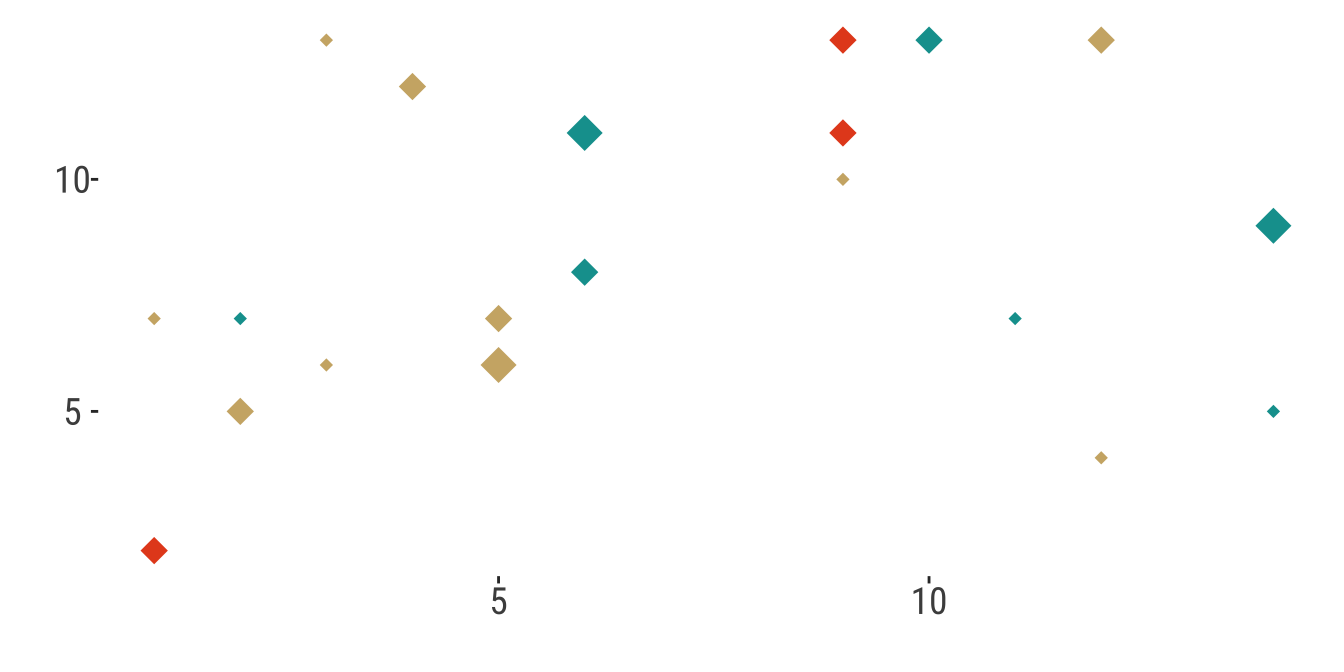
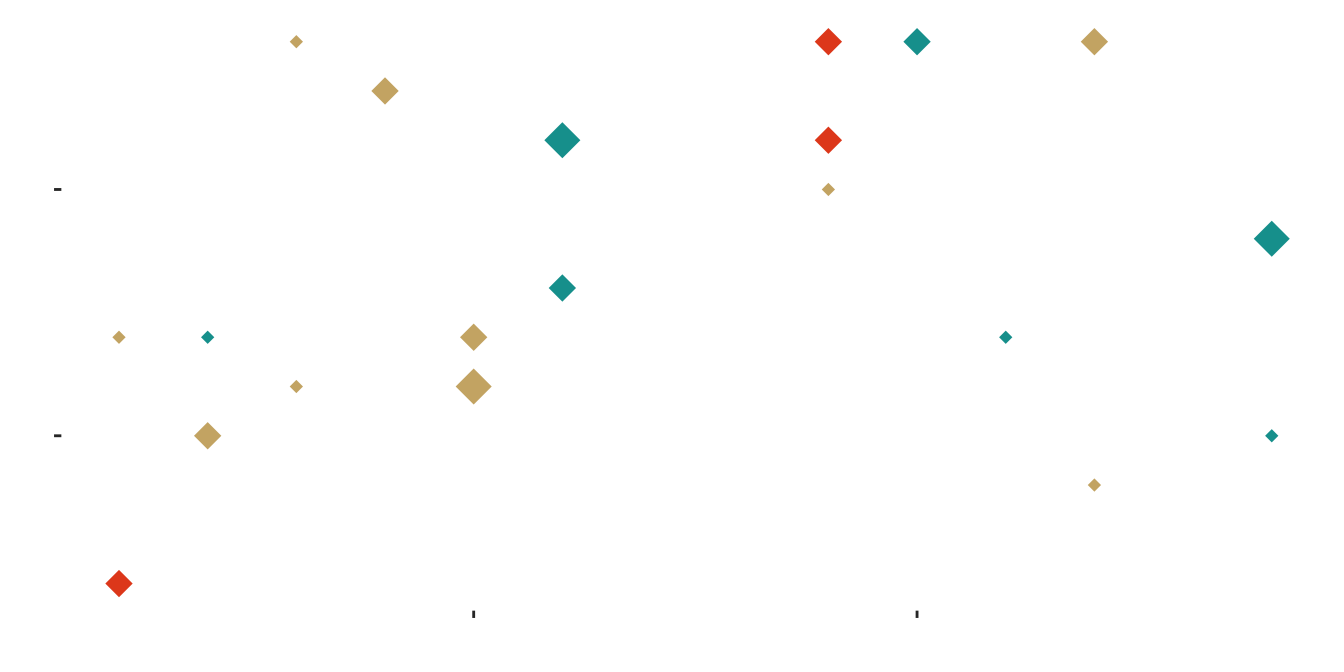
Built site for gh-pages

diff --git a/slides/Estimation.html b/slides/Estimation.html
@@ -358,7 +358,8 @@ Bárbara D. Bitarello
 <span id="cb2-4"><a></a>  <span class="fu">geom_point</span>(<span class="at">shape =</span> <span class="dv">18</span>, <span class="at">show.legend =</span> <span class="cn">FALSE</span>) <span class="sc">+</span> </span>
 <span id="cb2-5"><a></a>  <span class="fu">scale_color_manual</span>(<span class="at">values =</span> <span class="fu">asteroidcity1</span>()) <span class="sc">+</span></span>
 <span id="cb2-6"><a></a>  <span class="fu">bb_theme</span>() <span class="sc">+</span> </span>
-<span id="cb2-7"><a></a>  <span class="fu">ylab</span>(<span class="st">""</span>) <span class="sc">+</span> <span class="fu">ylab</span>(<span class="st">""</span>) <span class="sc">+</span>   <span class="fu">theme</span>(<span class="at">axis.text.x =</span> <span class="fu">element_blank</span>(), <span class="at">axis.text.y =</span> <span class="fu">element_blank</span>())</span></code></pre></div><button title="Copy to Clipboard" class="code-copy-button"><i class="bi"></i></button></div>
+<span id="cb2-7"><a></a>  <span class="fu">ylab</span>(<span class="st">""</span>) <span class="sc">+</span> <span class="fu">ylab</span>(<span class="st">""</span>) <span class="sc">+</span>   </span>
+<span id="cb2-8"><a></a>  <span class="fu">theme</span>(<span class="at">axis.text.x =</span> <span class="fu">element_blank</span>(), <span class="at">axis.text.y =</span> <span class="fu">element_blank</span>())</span></code></pre></div><button title="Copy to Clipboard" class="code-copy-button"><i class="bi"></i></button></div>
 </details>
 </div>
 <img data-src="Estimation_files/figure-revealjs/sample20-2-plot-1.png" width="672" class="r-stretch"><div class="cell">
@@ -401,8 +402,9 @@ Bárbara D. Bitarello
 <span id="cb3-4"><a></a>  <span class="fu">geom_point</span>(<span class="at">shape =</span> <span class="dv">18</span>, <span class="at">show.legend =</span> <span class="cn">FALSE</span>) <span class="sc">+</span> </span>
 <span id="cb3-5"><a></a>  <span class="fu">scale_color_manual</span>(<span class="at">values =</span> <span class="fu">asteroidcity1</span>()) <span class="sc">+</span></span>
 <span id="cb3-6"><a></a>  <span class="fu">bb_theme</span>() <span class="sc">+</span> </span>
-<span id="cb3-7"><a></a>  <span class="fu">ylab</span>(<span class="st">""</span>) <span class="sc">+</span> <span class="fu">xlab</span>(<span class="st">""</span>) <span class="sc">+</span></span>
-<span id="cb3-8"><a></a>   <span class="fu">theme</span>(<span class="at">axis.text.x =</span> <span class="fu">element_blank</span>(), <span class="at">axis.text.y =</span> <span class="fu">element_blank</span>())</span></code></pre></div><button title="Copy to Clipboard" class="code-copy-button"><i class="bi"></i></button></div>
+<span id="cb3-7"><a></a>  <span class="fu">ylab</span>(<span class="st">""</span>) <span class="sc">+</span> </span>
+<span id="cb3-8"><a></a>  <span class="fu">xlab</span>(<span class="st">""</span>) <span class="sc">+</span></span>
+<span id="cb3-9"><a></a>   <span class="fu">theme</span>(<span class="at">axis.text.x =</span> <span class="fu">element_blank</span>(), <span class="at">axis.text.y =</span> <span class="fu">element_blank</span>())</span></code></pre></div><button title="Copy to Clipboard" class="code-copy-button"><i class="bi"></i></button></div>
 </details>
 </div>
 <img data-src="Estimation_files/figure-revealjs/sample20-3-plot-1.png" width="672" class="r-stretch"><div class="cell">
@@ -443,7 +445,7 @@ Bárbara D. Bitarello
 <span id="cb4-2"><a></a>stars.sample <span class="ot">&lt;-</span> <span class="fu">sample_n</span>(stars, <span class="at">size =</span> star.sample.size, <span class="at">replace =</span> <span class="cn">FALSE</span>)</span>
 <span id="cb4-3"><a></a><span class="fu">ggplot</span>(stars.sample, <span class="fu">aes</span>(<span class="at">x =</span> x, <span class="at">y =</span> y, <span class="at">color =</span> color, <span class="at">size =</span> size)) <span class="sc">+</span> <span class="fu">geom_point</span>(<span class="at">shape =</span> <span class="dv">18</span>,</span>
 <span id="cb4-4"><a></a>    <span class="at">show.legend =</span> <span class="cn">FALSE</span>) <span class="sc">+</span> <span class="fu">scale_color_manual</span>(<span class="at">values =</span> <span class="fu">asteroidcity1</span>()) <span class="sc">+</span> <span class="fu">bb_theme</span>() <span class="sc">+</span></span>
-<span id="cb4-5"><a></a>    <span class="fu">ylab</span>(<span class="st">""</span>) <span class="sc">+</span> <span class="fu">xlab</span>(<span class="st">""</span>)</span></code></pre></div><button title="Copy to Clipboard" class="code-copy-button"><i class="bi"></i></button></div>
+<span id="cb4-5"><a></a>    <span class="fu">ylab</span>(<span class="st">""</span>) <span class="sc">+</span> <span class="fu">xlab</span>(<span class="st">""</span>) <span class="sc">+</span> <span class="fu">theme</span>(<span class="at">axis.text.x =</span> <span class="fu">element_blank</span>(), <span class="at">axis.text.y =</span> <span class="fu">element_blank</span>())</span></code></pre></div><button title="Copy to Clipboard" class="code-copy-button"><i class="bi"></i></button></div>
 </details>
 </div>
 <img data-src="Estimation_files/figure-revealjs/sample20-4-plot-1.png" width="672" class="r-stretch"><div class="cell">
@@ -492,7 +494,7 @@ Bárbara D. Bitarello
 </ul>
 
 <aside><div>
-<p>There are some great interactive simulators out there to help you grasp the sampling distribution, e.g.<a href="https://www.zoology.ubc.ca/~whitlock/Kingfisher/SamplingNormal.htm">this one</a></p>
+<p>There are some other great interactive simulators out there to help you grasp the sampling distribution. I share one later but there a</p>
 </div></aside></section><section id="the-sampling-distribution" class="slide level2 dark-theme center"><h2>The sampling distribution!</h2>
 </section><section id="the-sampling-distribution-1" class="slide level2"><h2>The sampling distribution</h2>
 <ul>
@@ -510,7 +512,7 @@ Bárbara D. Bitarello
 </ol>
 
 <aside><div>
-<p>Assumption: you can sample repeatedly from the population of interest and your sampling does not in iteself change the population of interest. When this is not possible to do, you can bootstrap! (which we did in Lab 6, more on this later)</p>
+<p>Assumption: you can sample repeatedly from the population of interest and your sampling does not in iteself change the population of interest. When this is not possible to do, you can bootstrap! (which we did in Lab 6, more on this later). In the meantime, <a href="https://online.stat.psu.edu/stat555/node/119/">check this out.</a></p>
 </div></aside></section><section id="example-the-sampling-distribution-of-diamonds" class="slide level2"><h2>Example: The Sampling Distribution of Diamonds</h2>
 <div class="cell">
 <div class="cell-output-display">
@@ -694,13 +696,17 @@ Bárbara D. Bitarello
 <img data-src="Estimation_files/figure-revealjs/jointsampdist-1.png" width="960" class="r-stretch"></section><section id="how-does-variability-in-an-estimate-change-with-sample-size" class="slide level2 dark-theme center"><h2>How does variability in an estimate change with sample size?</h2>
 </section><section id="section" class="slide level2"><h2></h2>
 
-<img data-src="Estimation_files/figure-revealjs/variab-1.png" width="960" class="r-stretch"></section><section id="standard-error" class="slide level2 dark-theme center"><h2>Standard Error</h2>
+<img data-src="Estimation_files/figure-revealjs/variab-1.png" width="960" class="r-stretch"></section><section id="section-1" class="slide level2"><h2></h2>
+
+<img data-src="images/clipboard-3973341862.png" class="r-stretch"></section><section id="standard-error" class="slide level2 dark-theme center"><h2>Standard Error</h2>
 </section><section id="the-standard-error-definition" class="slide level2"><h2>The Standard Error: Definition</h2>
-<p>The standard error reflects the difference between an estimate and the target parameter value. The standard error predicts the sampling error of the estimate.</p>
-</section><section id="the-standard-error-of-the-mean-sem" class="slide level2"><h2>The Standard Error of the Mean (SEM)</h2>
 <ul>
-<li><p>Because we rarely know the population standard deviation,<span class="math inline">\(\sigma\)</span>, we cannot find the parameter <font color="#ad7237"> <span class="math inline">\(\sigma_{\bar{Y}}=\frac{\sigma_{Y}}{\sqrt{n}}\)</span></font> , the standard error of the <font color="#ad7237">population mean</font>.</p></li>
-<li><p>But, we can use the sample standard deviation, <span class="math inline">\(s\)</span>, to estimate <font color="#00a1b7"><span class="math inline">\(SEM_{\bar{Y}}=\frac{s}{\sqrt{n}}\)</span></font>, the standard error of the <font color="#00a1b7">sample mean</font>.</p></li>
+<li><p>The standard error reflects the difference between an estimate and the target parameter value.</p></li>
+<li><p>The standard error predicts the sampling error of the estimate.</p></li>
+</ul></section><section id="the-standard-error-of-the-mean-sem" class="slide level2"><h2>The Standard Error of the Mean (SEM)</h2>
+<ul>
+<li><p>Because we rarely know the population standard deviation,<font color="#ad7237"><span class="math inline">\(\sigma\)</span></font>, we cannot find the parameter <font color="#ad7237"> <span class="math inline">\(\sigma_{\bar{Y}}=\frac{\sigma_{Y}}{\sqrt{n}}\)</span></font> , the standard error of the <font color="#ad7237">population mean</font>.</p></li>
+<li><p>But, we can use the sample standard deviation, <font color="#00a1b7"><span class="math inline">\(s\)</span></font>, to estimate <font color="#00a1b7"><span class="math inline">\(SEM_{\bar{Y}}=\frac{s}{\sqrt{n}}\)</span></font>, the standard error of the <font color="#00a1b7">sample mean</font>.</p></li>
 </ul>
 <p>Also:</p>
 <div class="goal">
@@ -709,11 +715,13 @@ Bárbara D. Bitarello
 </section><section id="example-human-gene-lengths" class="slide level2 dark-theme center"><h2>Example: human gene lengths</h2>
 </section><section id="human-gene-lengths" class="slide level2"><h2>Human gene lengths</h2>
 <div class="cell">
-<details class="code-fold"><summary>Code</summary><div class="code-copy-outer-scaffold"><div class="sourceCode cell-code" id="cb6"><pre class="sourceCode numberSource r number-lines code-with-copy"><code class="sourceCode r"><span id="cb6-1"><a></a><span class="fu">ggplot</span>(human_genes, <span class="fu">aes</span>(<span class="at">x =</span> size)) <span class="sc">+</span> <span class="fu">geom_histogram</span>(<span class="fu">aes</span>(<span class="at">y =</span> <span class="fu">after_stat</span>(count<span class="sc">/</span><span class="fu">sum</span>(count))),</span>
-<span id="cb6-2"><a></a>    <span class="at">bins =</span> <span class="dv">60</span>, <span class="at">color =</span> <span class="st">"lightgray"</span>, <span class="at">fill =</span> <span class="st">"#006475"</span>) <span class="sc">+</span> <span class="fu">xlab</span>(<span class="st">"Gene Length (basepairs)"</span>) <span class="sc">+</span></span>
-<span id="cb6-3"><a></a>    <span class="fu">ylab</span>(<span class="st">"Relative Frequency"</span>) <span class="sc">+</span> <span class="fu">annotate</span>(<span class="st">"text"</span>, <span class="at">x =</span> <span class="dv">10000</span>, <span class="at">y =</span> <span class="fl">0.04</span>, <span class="at">label =</span> <span class="st">"mu==3511.5"</span>,</span>
-<span id="cb6-4"><a></a>    <span class="at">parse =</span> <span class="cn">TRUE</span>, <span class="at">size =</span> <span class="dv">10</span>) <span class="sc">+</span> <span class="fu">annotate</span>(<span class="st">"text"</span>, <span class="at">x =</span> <span class="dv">10000</span>, <span class="at">y =</span> <span class="fl">0.03</span>, <span class="at">label =</span> <span class="st">"sigma==2833.2"</span>,</span>
-<span id="cb6-5"><a></a>    <span class="at">parse =</span> <span class="cn">TRUE</span>, <span class="at">size =</span> <span class="dv">10</span>) <span class="sc">+</span> <span class="fu">bb_theme</span>()</span></code></pre></div><button title="Copy to Clipboard" class="code-copy-button"><i class="bi"></i></button></div>
+<details class="code-fold"><summary>Code</summary><div class="code-copy-outer-scaffold"><div class="sourceCode cell-code" id="cb6"><pre class="sourceCode numberSource r number-lines code-with-copy"><code class="sourceCode r"><span id="cb6-1"><a></a><span class="fu">ggplot</span>(human_genes , <span class="fu">aes</span>(<span class="at">x=</span>size)) <span class="sc">+</span> <span class="fu">geom_histogram</span>(<span class="fu">aes</span>(<span class="at">y=</span><span class="fu">after_stat</span>(count <span class="sc">/</span> <span class="fu">sum</span>(count))),<span class="at">bins=</span><span class="dv">60</span>, <span class="at">color=</span><span class="st">"lightgray"</span>, <span class="at">fill=</span><span class="st">"#006475"</span>) <span class="sc">+</span> <span class="fu">xlab</span>(<span class="st">"Gene Length (basepairs)"</span>) <span class="sc">+</span> </span>
+<span id="cb6-2"><a></a>  <span class="fu">ylab</span>(<span class="st">"Relative Frequency"</span>)<span class="sc">+</span></span>
+<span id="cb6-3"><a></a>  <span class="fu">annotate</span>(<span class="st">'text'</span>, <span class="at">x =</span> <span class="dv">10000</span>, <span class="at">y =</span> <span class="fl">0.04</span>, </span>
+<span id="cb6-4"><a></a>        <span class="at">label =</span> <span class="st">"mu==3511.5"</span>,<span class="at">parse =</span> <span class="cn">TRUE</span>,<span class="at">size=</span><span class="dv">10</span>) <span class="sc">+</span></span>
+<span id="cb6-5"><a></a>  <span class="fu">annotate</span>(<span class="st">'text'</span>, <span class="at">x =</span> <span class="dv">10000</span>, <span class="at">y =</span> <span class="fl">0.03</span>, </span>
+<span id="cb6-6"><a></a>        <span class="at">label =</span> <span class="st">"sigma==2833.2"</span>,<span class="at">parse =</span> <span class="cn">TRUE</span>,<span class="at">size=</span><span class="dv">10</span>)<span class="sc">+</span></span>
+<span id="cb6-7"><a></a>  <span class="fu">bb_theme</span>()</span></code></pre></div><button title="Copy to Clipboard" class="code-copy-button"><i class="bi"></i></button></div>
 </details>
 </div>
 <img data-src="Estimation_files/figure-revealjs/geneleng-1.png" width="960" class="r-stretch quarto-figure-center"><p class="caption">Note: parameters shown are for full dataset (n=20,290) but 26 genes with length &gt; 15,000 were omitted from this plot.</p></section><section id="sampling-distribution-from-textbook" class="slide level2"><h2>Sampling Distribution: from textbook</h2>

diff --git a/slides.html b/slides.html
@@ -438,7 +438,7 @@ Date
 
 </tr>
 
-<tr data-index="14" data-listing-date-sort="1760932800000" data-listing-file-modified-sort="1761070487128" data-listing-date-modified-sort="NaN" data-listing-reading-time-sort="11" data-listing-word-count-sort="2026" data-listing-title-sort="3.4.Probability" data-listing-filename-sort="Probability4.qmd">
+<tr data-index="14" data-listing-date-sort="1760932800000" data-listing-file-modified-sort="1761157529473" data-listing-date-modified-sort="NaN" data-listing-reading-time-sort="11" data-listing-word-count-sort="2026" data-listing-title-sort="3.4.Probability" data-listing-filename-sort="Probability4.qmd">
 <td>
 <span class="listing-keywords">Probability Rules</span>
 </td>
@@ -451,7 +451,7 @@ Date
 
 </tr>
 
-<tr data-index="15" data-listing-date-sort="1761105600000" data-listing-file-modified-sort="1761100210527" data-listing-date-modified-sort="NaN" data-listing-reading-time-sort="17" data-listing-word-count-sort="3255" data-listing-title-sort="4.1.Estimation with Uncertainty" data-listing-filename-sort="Estimation.qmd">
+<tr data-index="15" data-listing-date-sort="1761105600000" data-listing-file-modified-sort="1761159025542" data-listing-date-modified-sort="NaN" data-listing-reading-time-sort="17" data-listing-word-count-sort="3311" data-listing-title-sort="4.1.Estimation with Uncertainty" data-listing-filename-sort="Estimation.qmd">
 <td>
 <span class="listing-keywords">Estimation</span>
 </td>

diff --git a/slides/Probability4.html b/slides/Probability4.html
@@ -257,7 +257,7 @@ Bárbara D. Bitarello
 <li>In general, more information means you re-evaluate your choices.</li>
 </ul></section><section id="monty-hall-one-solution" class="slide level2"><h2>Monty Hall: One Solution</h2>
 
-<img data-src="images/clipboard-1321494589.png" class="r-stretch"></section><section id="monty-hall-one-solution-1" class="slide level2"><h2>Monty Hall: One Solution</h2>
+<img data-src="images/clipboard-3239712795.png" class="r-stretch"></section><section id="monty-hall-one-solution-1" class="slide level2"><h2>Monty Hall: One Solution</h2>
 <div data-align="center">
 <iframe src="images/monty.mp4">
 </iframe>

diff --git a/list_of_datacamp_assignments.html b/list_of_datacamp_assignments.html
@@ -6,7 +6,7 @@
 
 <meta name="viewport" content="width=device-width, initial-scale=1.0, user-scalable=yes">
 
-<meta name="dcterms.date" content="2025-10-21">
+<meta name="dcterms.date" content="2025-10-22">
 
 <title>B215: List of DataCamp Assigments – BIOL B215: Biostatistics with R</title>
 <style>
@@ -189,7 +189,7 @@ ul.task-list li input[type="checkbox"] {
     <div>
     <div class="quarto-title-meta-heading">Published</div>
     <div class="quarto-title-meta-contents">
-      <p class="date">October 21, 2025</p>
+      <p class="date">October 22, 2025</p>
     </div>
   </div>
   

diff --git a/handouts.html b/handouts.html
@@ -276,7 +276,7 @@ Date
 
 </tr>
 
-<tr data-index="1" data-listing-file-modified-sort="1761100265784" data-listing-filename-sort="Handout1.html">
+<tr data-index="1" data-listing-file-modified-sort="1761159038080" data-listing-filename-sort="Handout1.html">
 <td>
 <span class="listing-keywords">&nbsp;</span>
 </td>
